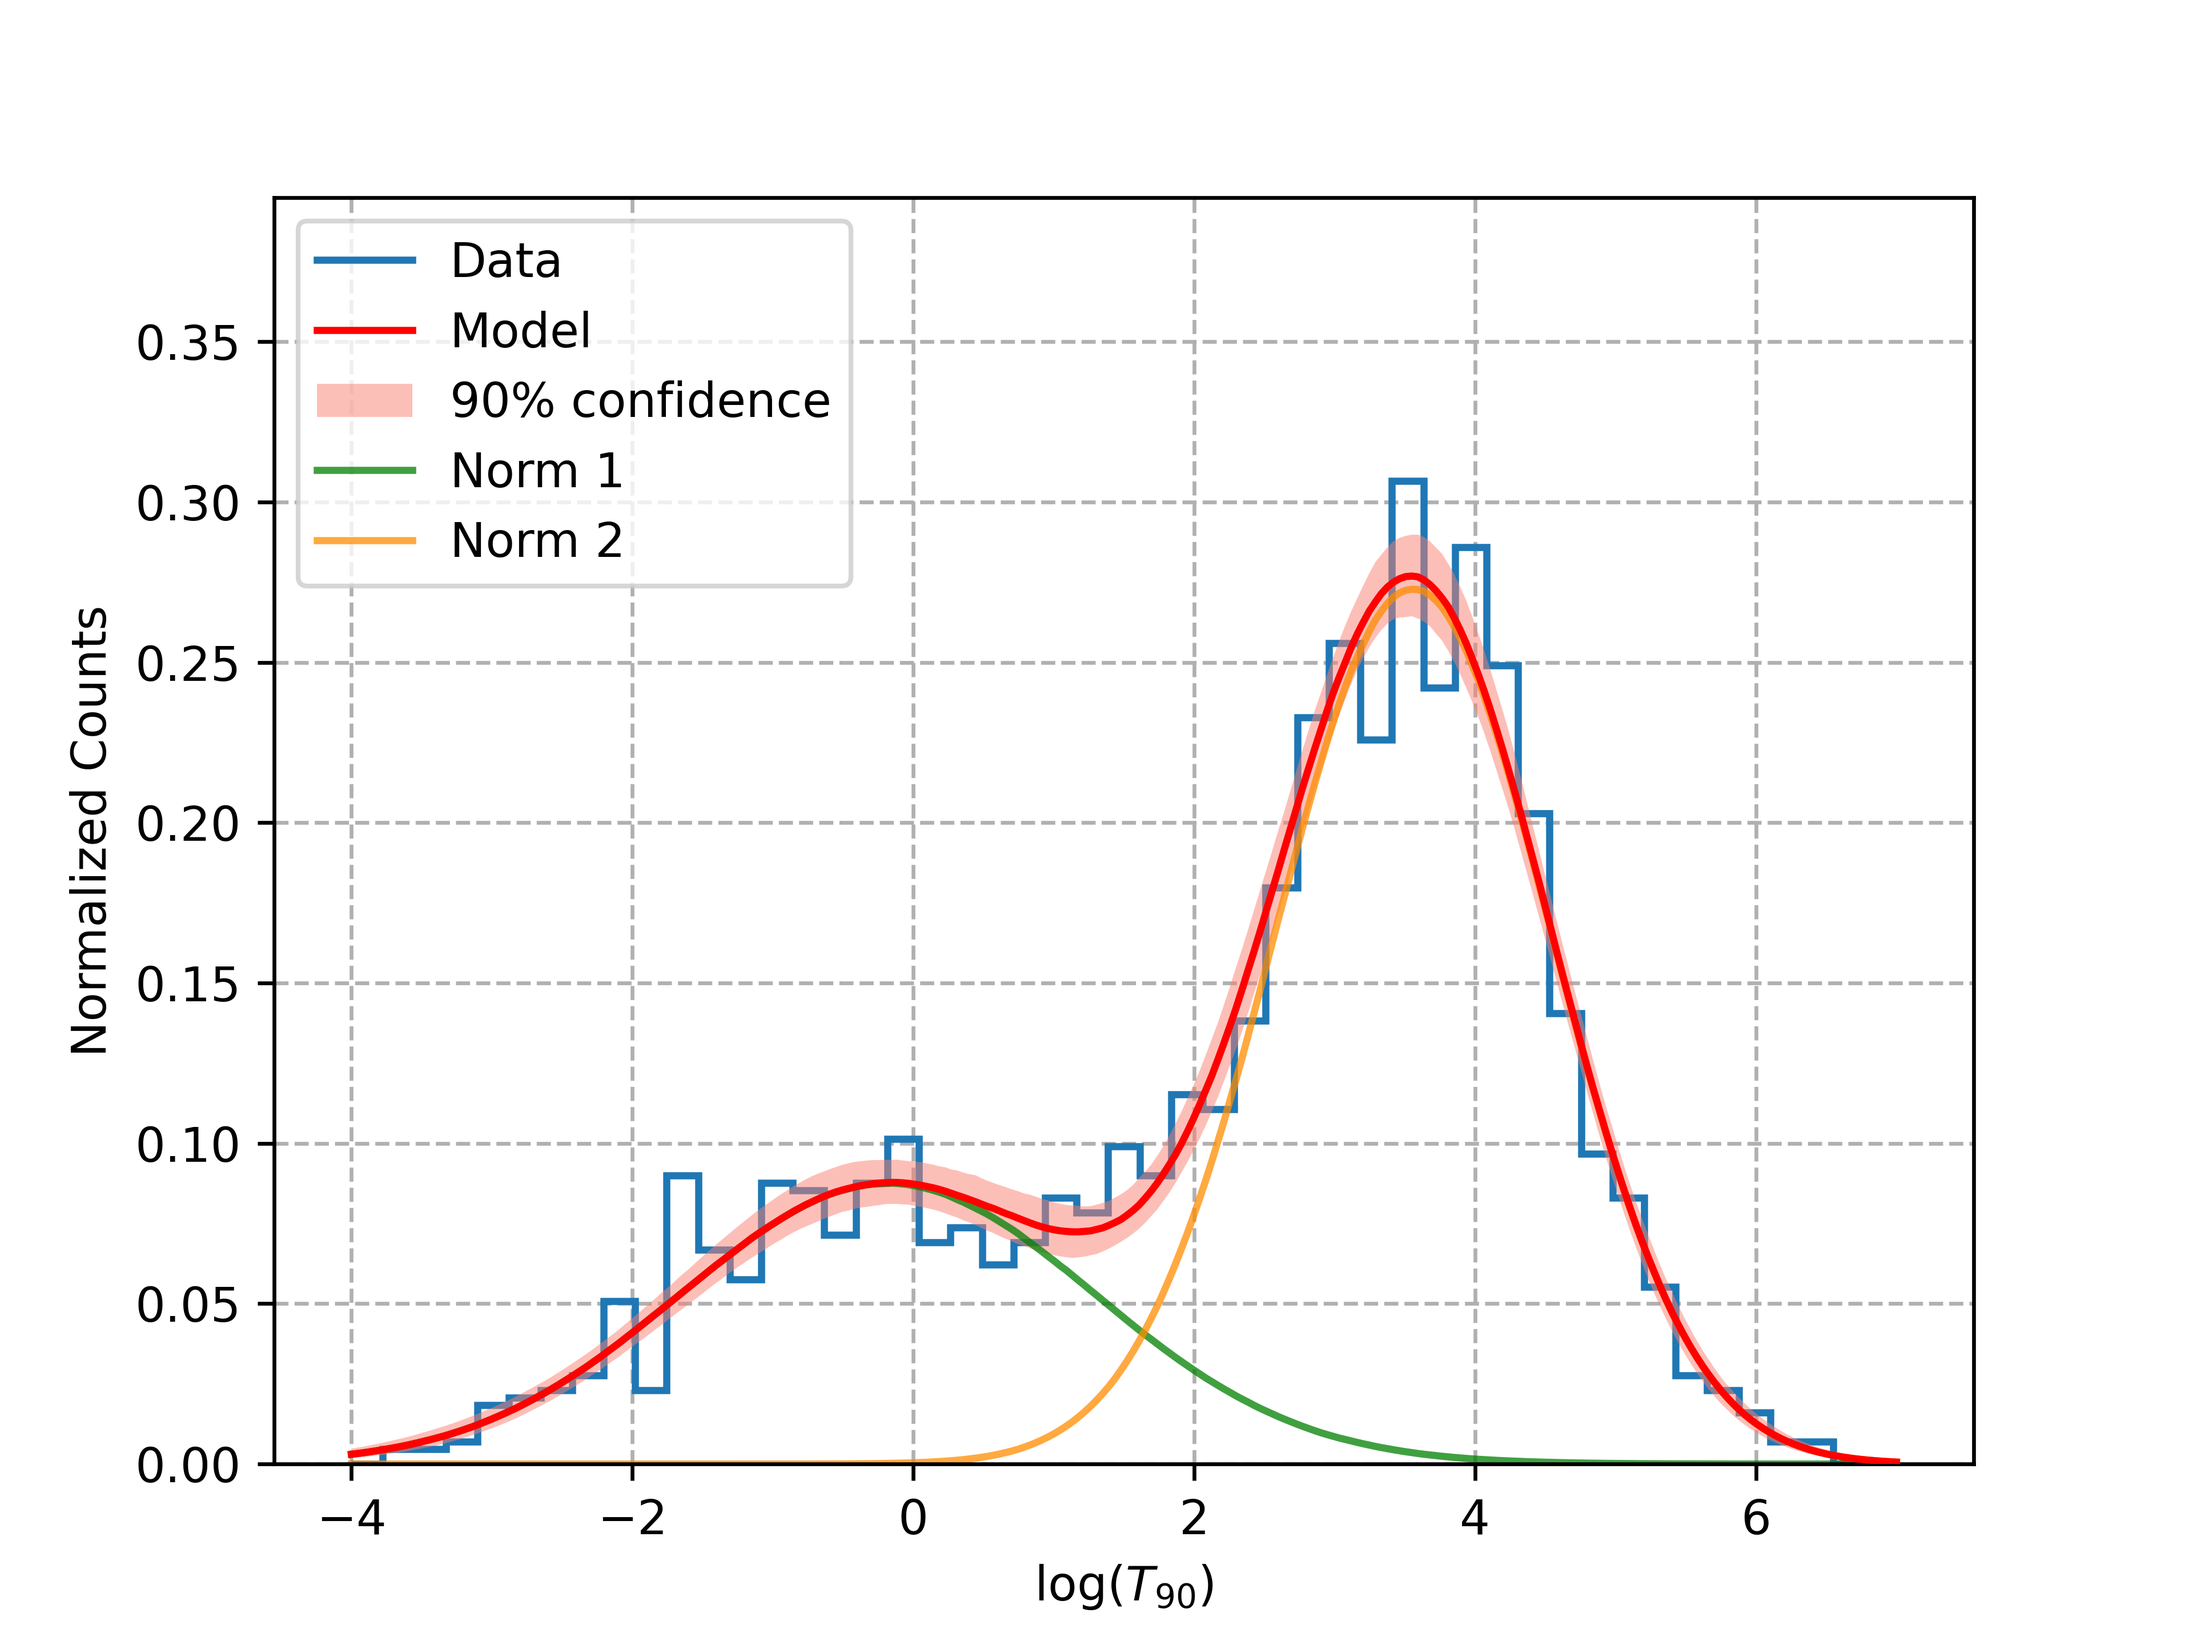
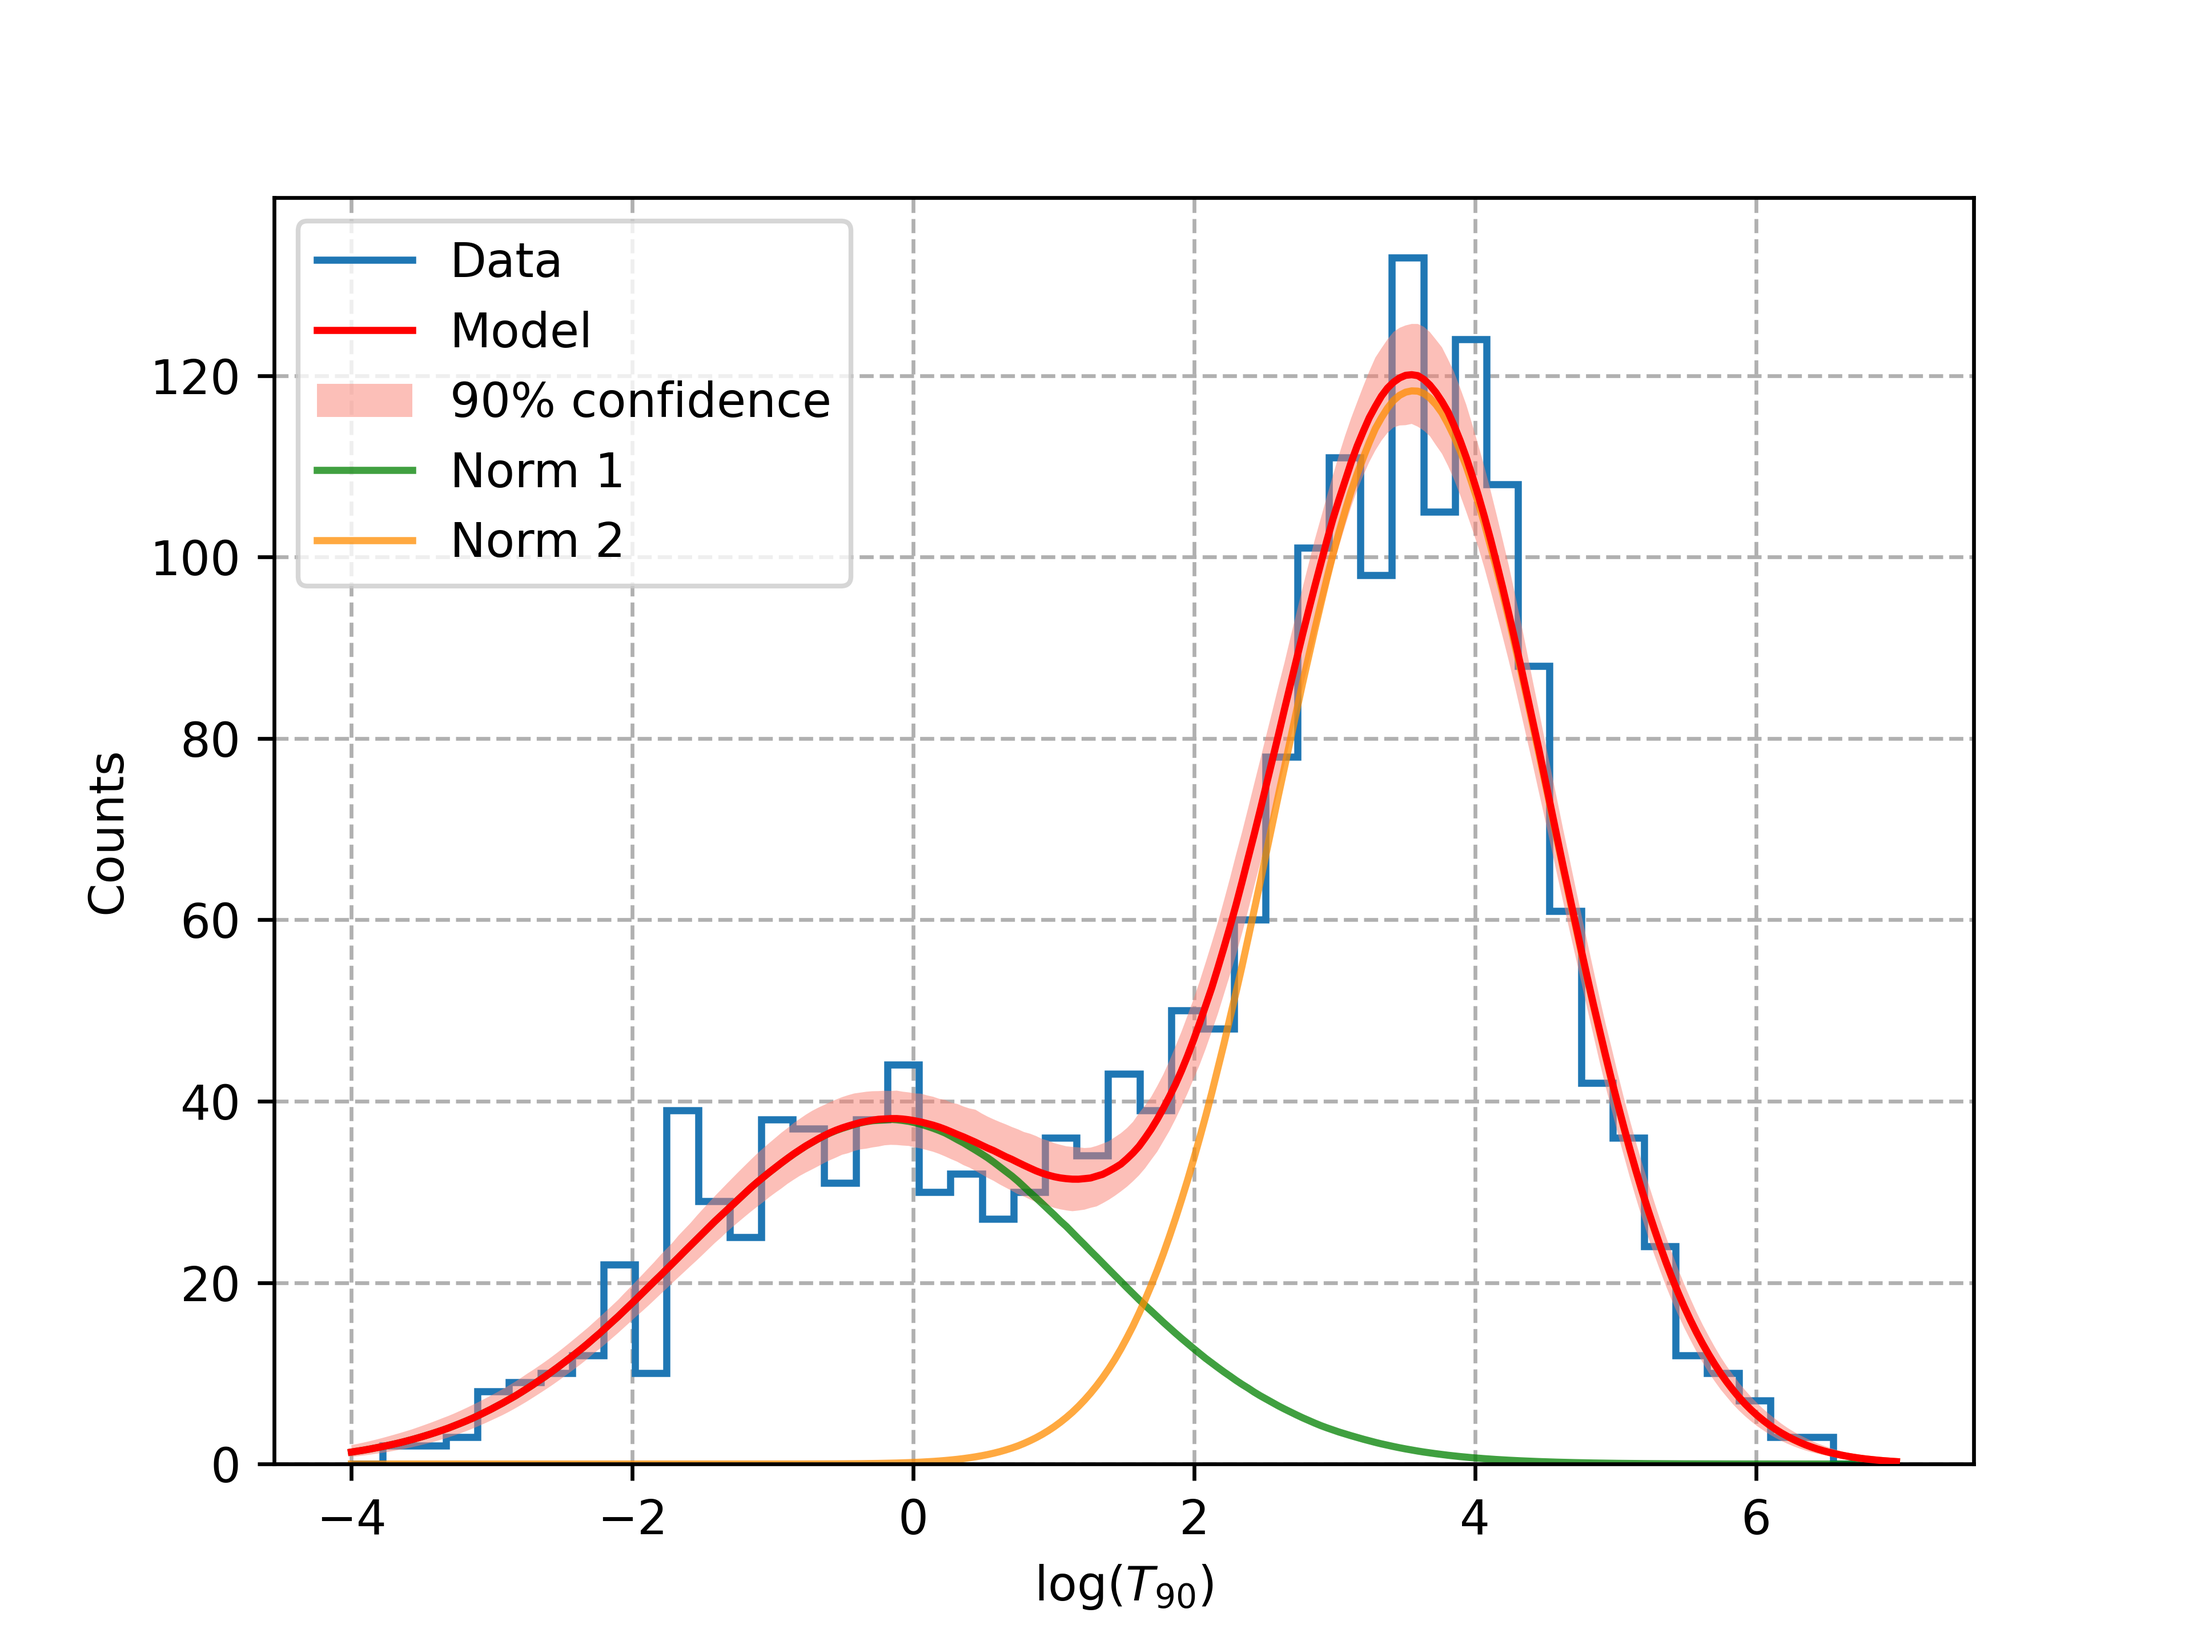
31/03: images of point 1a really done, do not normalize counts

diff --git a/GRB_class_1.py b/GRB_class_1.py
@@ -222,11 +222,11 @@ if __name__ == "__main__":
     print(f"Median error is: {np.median(d_log_T90):.2e}")
     
     nbins = 50
-    bins = np.linspace(-4, 7, nbins)
+    bins = np.linspace(-4, 7, nbins)                        # bins of the histogram
+    xx = np.linspace(-4,7,256)                              # linearspace for smooth plots
     print(f"A bin is large {np.diff(bins)[0]:.2e}")
 
-    hist, edges = np.histogram(log_T90, bins = bins, density = True)    # used in plot
-    counts, _ = np.histogram(log_T90, bins = bins)                      # used for the real analysis
+    counts, edges = np.histogram(log_T90, bins = bins)                      # hist of data
     center = (edges[1:] + edges[:-1])*0.5
 
     par_name = np.array(["$w$", "$\\mu_1$", "$\\sigma_1$", "$\\mu_2$", "$\\sigma_2$"])
@@ -238,10 +238,6 @@ if __name__ == "__main__":
                         rng.uniform(0.01,3)])
     theta_fit = np.array([0.4, -0.5, 1.5, 3.6, 0.8])
     
-    xx = np.linspace(-4,7,256)
-    pdf = weighted_log_normal(xx, theta_0)
-    pdf_f = weighted_log_normal(xx, theta_fit)
-
     """
     # plot the data
     fig0 = plt.figure("Data and model")
@@ -418,17 +414,18 @@ if __name__ == "__main__":
     w_normal_1 = np.percentile([s[0] * gauss(xx, s[1], s[2]) for s in parameters], 50, axis=0)
     w_normal_2 = np.percentile([(1-s[0]) * gauss(xx, s[3], s[4]) for s in parameters], 50, axis=0)
 
+    scale = np.diff(bins)[0]*np.sum(counts)
     # plot the data with the best fit
     fig6 = plt.figure("Data and model")
     ax = fig6.add_subplot(111)
-    ax.stairs(hist, edges, color = 'C0', label = 'Data', linewidth=1.5)
-    ax.plot(xx, pdf, 'r', label = "Model", zorder = 4)
-    ax.fill_between(xx, h, l, facecolor='salmon', alpha = 0.5, label="90% confidence")
-    ax.plot(xx, w_normal_1, 'g', label = "Norm 1", alpha = 0.75)
-    ax.plot(xx, w_normal_2, color = 'darkorange', label = "Norm 2", alpha = 0.75)
+    ax.stairs(counts, edges, color = 'C0', label = 'Data', linewidth=1.5)
+    ax.plot(xx, pdf*scale, 'r', label = "Model", zorder = 4)
+    ax.fill_between(xx, h*scale, l*scale, facecolor='salmon', alpha = 0.5, label="90% confidence")
+    ax.plot(xx, w_normal_1*scale, 'g', label = "Norm 1", alpha = 0.75)
+    ax.plot(xx, w_normal_2*scale, color = 'darkorange', label = "Norm 2", alpha = 0.75)
     ax.set_xlabel("$\\log(T_{90})$")
-    ax.set_ylabel("Normalized Counts")
-    ax.set_ylim([0,0.395])
+    ax.set_ylabel("Counts")
+    #ax.set_ylim([0,0.395])
     ax.grid(linestyle = 'dashed')
     ax.set_axisbelow(True)
     plt.legend()
